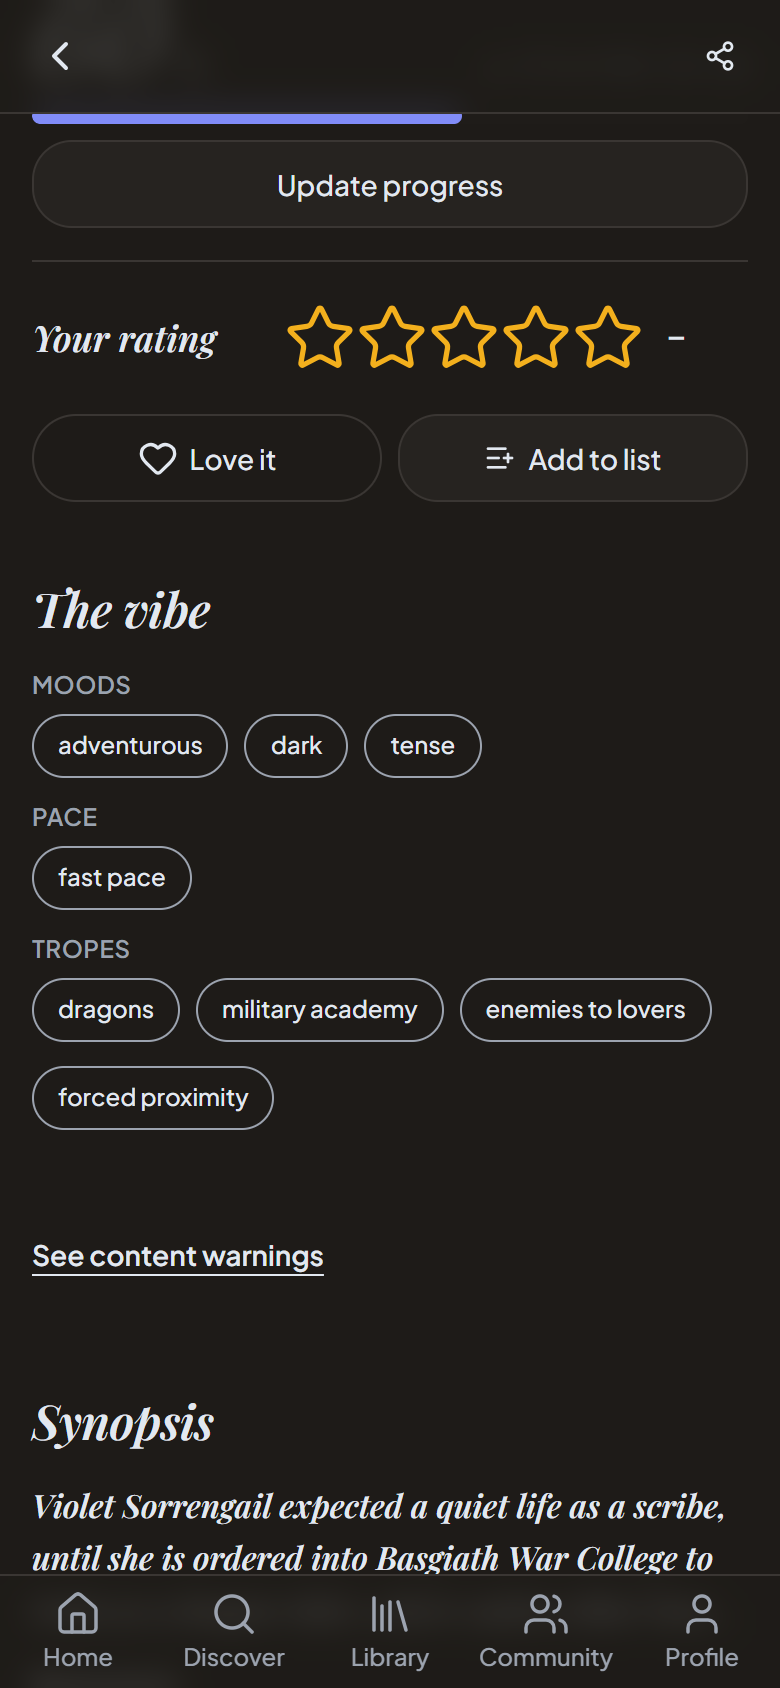
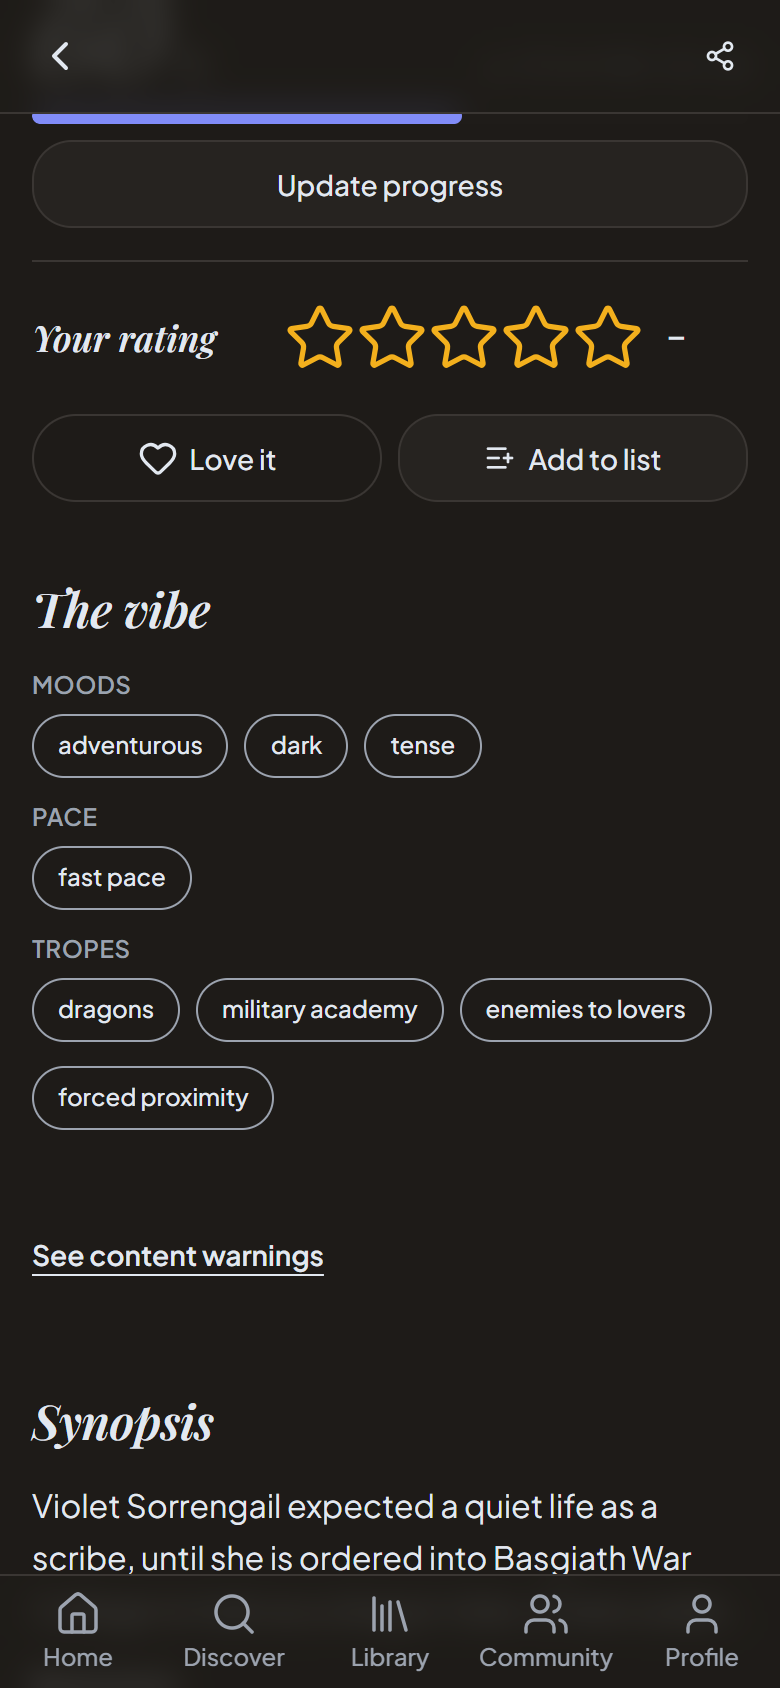
fix: long-form text in the sans under theme v2
Synopsis, reviews and feed comments drop font-serif: Playfair Display
SemiBold Italic is a display face, as docs/visual-system.md rule 5 says.
Captures regenerated.

Changed region(s): [[0.0308, 0.8626, 0.9231, 0.955]]

diff --git a/src/components/community/ActivityItem.tsx b/src/components/community/ActivityItem.tsx
@@ -77,7 +77,7 @@ export function ActivityItem({ activity }: { activity: Activity }) {
               </button>
             )}
             <div id={bodyId} hidden={!revealed}>
-              <ClampText clamp="line-clamp-3" className="font-serif text-[0.9375rem] leading-relaxed">
+              <ClampText clamp="line-clamp-3" className="text-[0.9375rem] leading-relaxed">
                 {reviewText}
               </ClampText>
             </div>

diff --git a/src/pages/BookPage.tsx b/src/pages/BookPage.tsx
@@ -69,7 +69,7 @@ function BookDetails({ book }: { book: Book }) {
         <ContentWarnings book={book} />
         <Section title="Synopsis">
           {book.synopsis ? (
-            <ClampText clamp="line-clamp-3" className="font-serif leading-relaxed">
+            <ClampText clamp="line-clamp-3" className="leading-relaxed">
               {book.synopsis}
             </ClampText>
           ) : (

diff --git a/src/components/book/ReviewCard.tsx b/src/components/book/ReviewCard.tsx
@@ -66,7 +66,7 @@ export function ReviewCard({ review, className }: ReviewCardProps) {
       )}
 
       <div id={textId} hidden={!revealed}>
-        <ClampText clamp="line-clamp-4" className="font-serif text-[0.9375rem] leading-relaxed">
+        <ClampText clamp="line-clamp-4" className="text-[0.9375rem] leading-relaxed">
           {review.text}
         </ClampText>
       </div>
